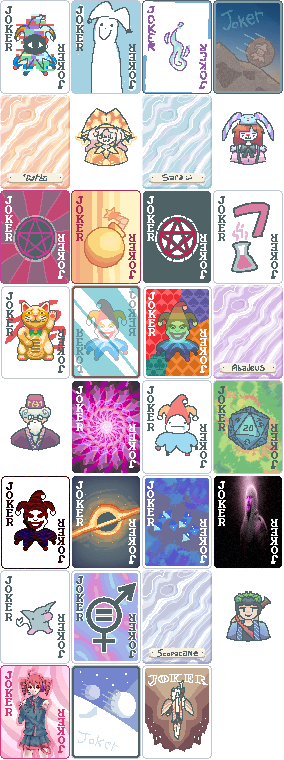
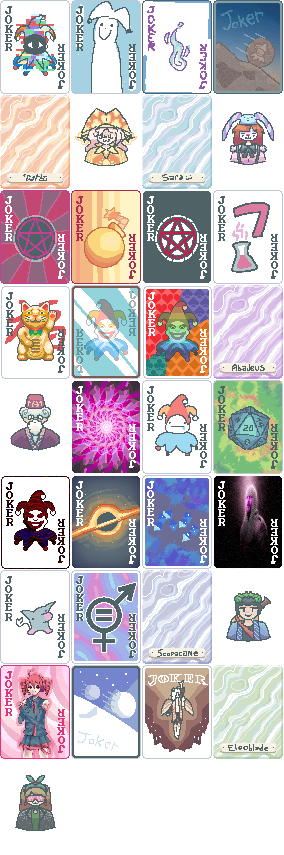
Added Eleoblade, fixed some bugs

diff --git a/README.md b/README.md
@@ -7,7 +7,7 @@ Every Joker and art in this mod is made by me unless stated otherwise
 
 I make these Jokers for myself but i figure people might enjoy them, so they're available to download!
 
-There are currently 26 Jokers in this mod, more will be on the way :]
+There are currently 27 Jokers in this mod, more will be on the way :]
 
 Check the repository every once in a while for updates :33
 
